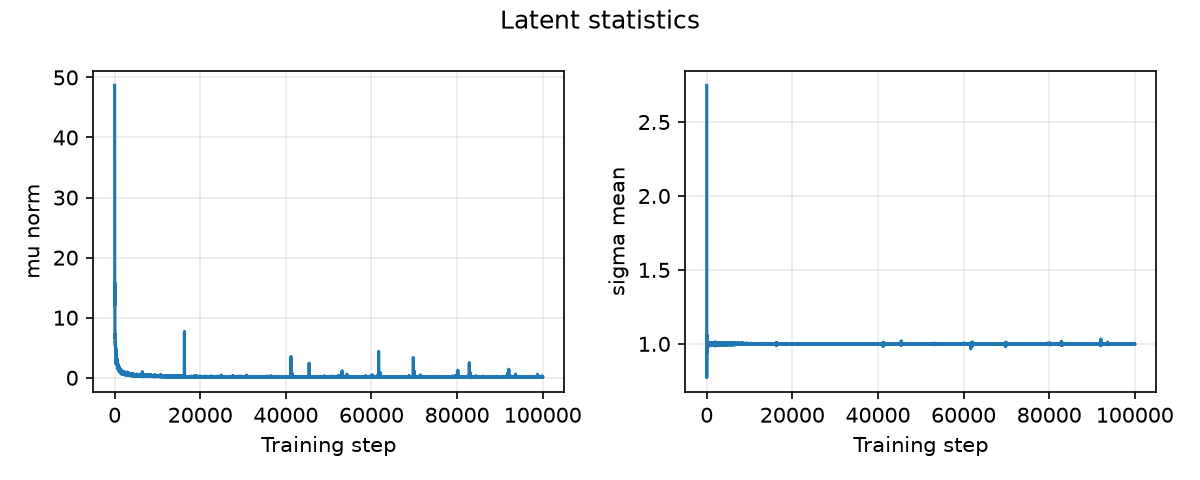
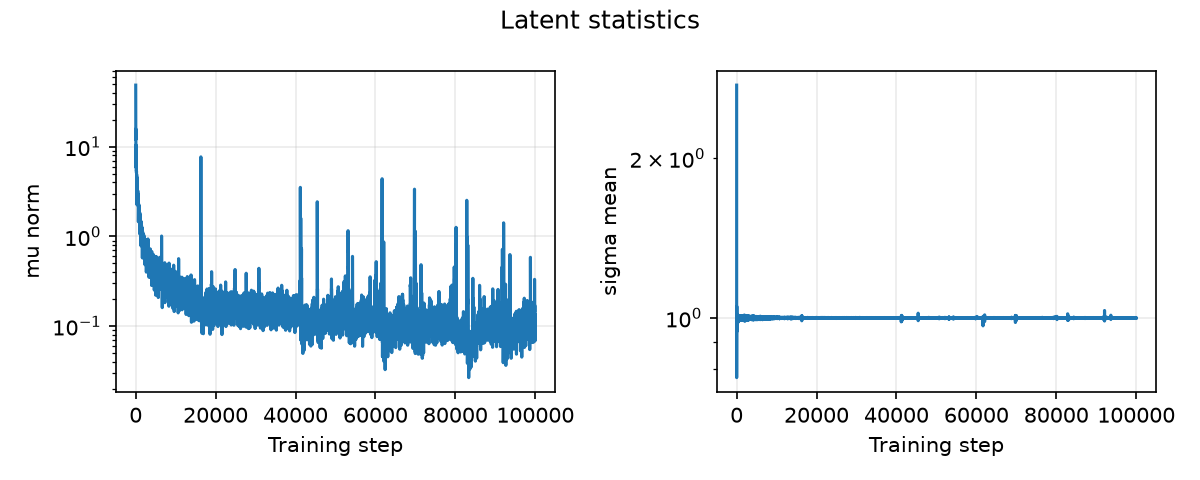
docs: use log scale for latent training curves

Changed region(s): [[0.0308, 0.125, 0.4625, 0.8125], [0.4933, 0.1562, 0.9867, 0.9688], [0.0925, 0.8438, 0.4933, 0.9688]]

diff --git a/scripts/utils/plot_training_run.py b/scripts/utils/plot_training_run.py
@@ -3,10 +3,10 @@
 Produces one figure per metric group, with a single panel per metric, so the
 training dynamics of a run can be inspected at a glance:
 
-- ``batch_metrics.png``: action, weighted KL, and total losses (smoothed)
-- ``denorm_l1.png``: denormalized joint and gripper L1 errors (smoothed)
-- ``eval.png``: episode horizon and success rate
-- ``latent.png``: latent ``mu`` norm and ``sigma`` mean
+- ``batch_metrics_horizontal.png``: action, weighted KL, and total losses (smoothed)
+- ``denorm_l1_horizontal.png``: denormalized joint and gripper L1 errors (smoothed)
+- ``eval_horizontal.png``: episode horizon and success rate
+- ``latent_horizontal.png``: latent ``mu`` norm and ``sigma`` mean
 
 Example:
     uv run python scripts/utils/plot_training_run.py \\
@@ -119,7 +119,7 @@ def main() -> None:
 
     render_group(
         accumulator=accumulator,
-        output_path=args.output_dir / "batch_metrics.png",
+        output_path=args.output_dir / "batch_metrics_horizontal.png",
         title="Batch metrics (500-step moving average)",
         metrics=BATCH_METRICS,
         smooth=True,
@@ -127,7 +127,7 @@ def main() -> None:
     )
     render_group(
         accumulator=accumulator,
-        output_path=args.output_dir / "denorm_l1.png",
+        output_path=args.output_dir / "denorm_l1_horizontal.png",
         title="Denormalized action error (500-step moving average)",
         metrics=DENORM_METRICS,
         smooth=True,
@@ -135,7 +135,7 @@ def main() -> None:
     )
     render_group(
         accumulator=accumulator,
-        output_path=args.output_dir / "eval.png",
+        output_path=args.output_dir / "eval_horizontal.png",
         title="Evaluation during training",
         metrics=EVAL_METRICS,
         smooth=False,
@@ -143,11 +143,11 @@ def main() -> None:
     )
     render_group(
         accumulator=accumulator,
-        output_path=args.output_dir / "latent.png",
+        output_path=args.output_dir / "latent_horizontal.png",
         title="Latent statistics",
         metrics=LATENT_METRICS,
         smooth=False,
-        log_scale=False,
+        log_scale=True,
     )
 
 
